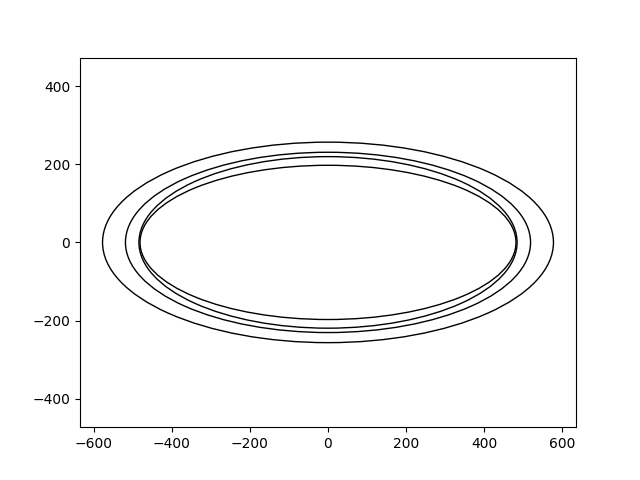
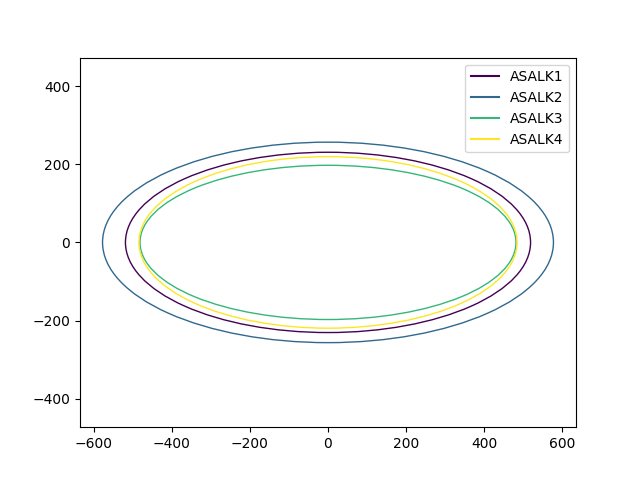
Update combined plot to add color and legend

Changed region(s): [[0.1562, 0.125, 0.875, 0.7188]]

diff --git a/src/flylips/combined_plot.py b/src/flylips/combined_plot.py
@@ -1,6 +1,9 @@
 from typing import List
+import numpy as np
 import matplotlib.pyplot as plt
+from matplotlib.lines import Line2D
 from matplotlib.patches import Ellipse
+from matplotlib.cm import viridis
 from flylips.wing import Wing
 
 
@@ -12,12 +15,18 @@ def combined_plot(wings: List[Wing]):
     plot. The plot will be saved to the current working directory.
     """
     fig, ax = plt.subplots()
-    for wing in wings:
+    colors = np.linspace(0, 1, len(wings))
+    custom_legend = []
+    labels = []
+    for ix,wing in enumerate(wings):
         _, _, a, b, _ = wing.params
         if a < b:
             a, b = b, a
-        ellipse = Ellipse(xy=[0,0], width=2*a, height=2*b, angle = 0, fill=False)
+        ellipse = Ellipse(xy=[0,0], width=2*a, height=2*b, angle = 0, fill=False, color=viridis(colors[ix]), label = wing.name)
+        custom_legend.append(Line2D([0], [0], color=viridis(colors[ix])))
+        labels.append(wing.name)
         ax.add_patch(ellipse)
     plt.axis('equal')
+    plt.legend(custom_legend, labels)
     plt.savefig('combined.png')
     plt.close()
